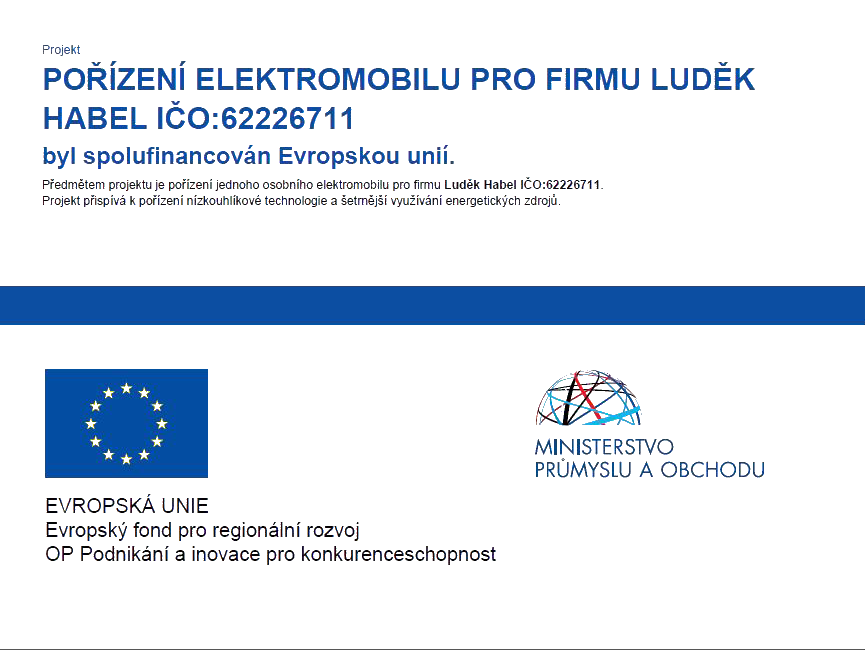
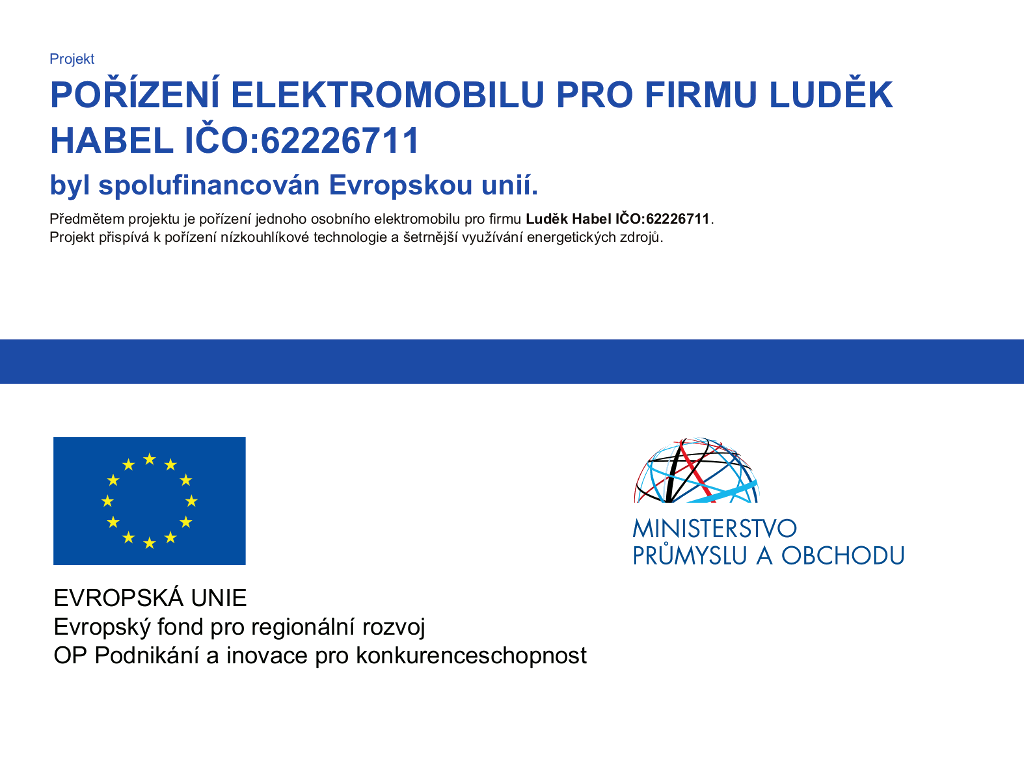
optimi plakat EU

diff --git a/public_html/pokladny/index.html b/public_html/pokladny/index.html
@@ -340,9 +340,6 @@
               </div>
               <button class="btn btn-primary mb-4" id="btn_clanek_2" onclick="hideClanek2()" type="button" data-toggle="collapse" data-target="#toogle_clanek2" aria-expanded="false" aria-controls="toogle_clanek2">číst dál...</button>
             </div>
-            <div class="row mx-4">
-              <img src="img/plakatEU.png" class="img-fluid"/>
-            </div>
              <!--
             <div class="row mx-4">
               <h3 class="mb-4">Pokladní kotouče BPA free bez škodlivé ..</h3>
@@ -366,6 +363,11 @@
             </div>   -->
           </div>
         </div>
+
+        <div class="row">
+          <img src="img/plakatEU.png" class="img-fluid"/>
+        </div>
+
       </div>
     </section>
     <!-- GDPR
